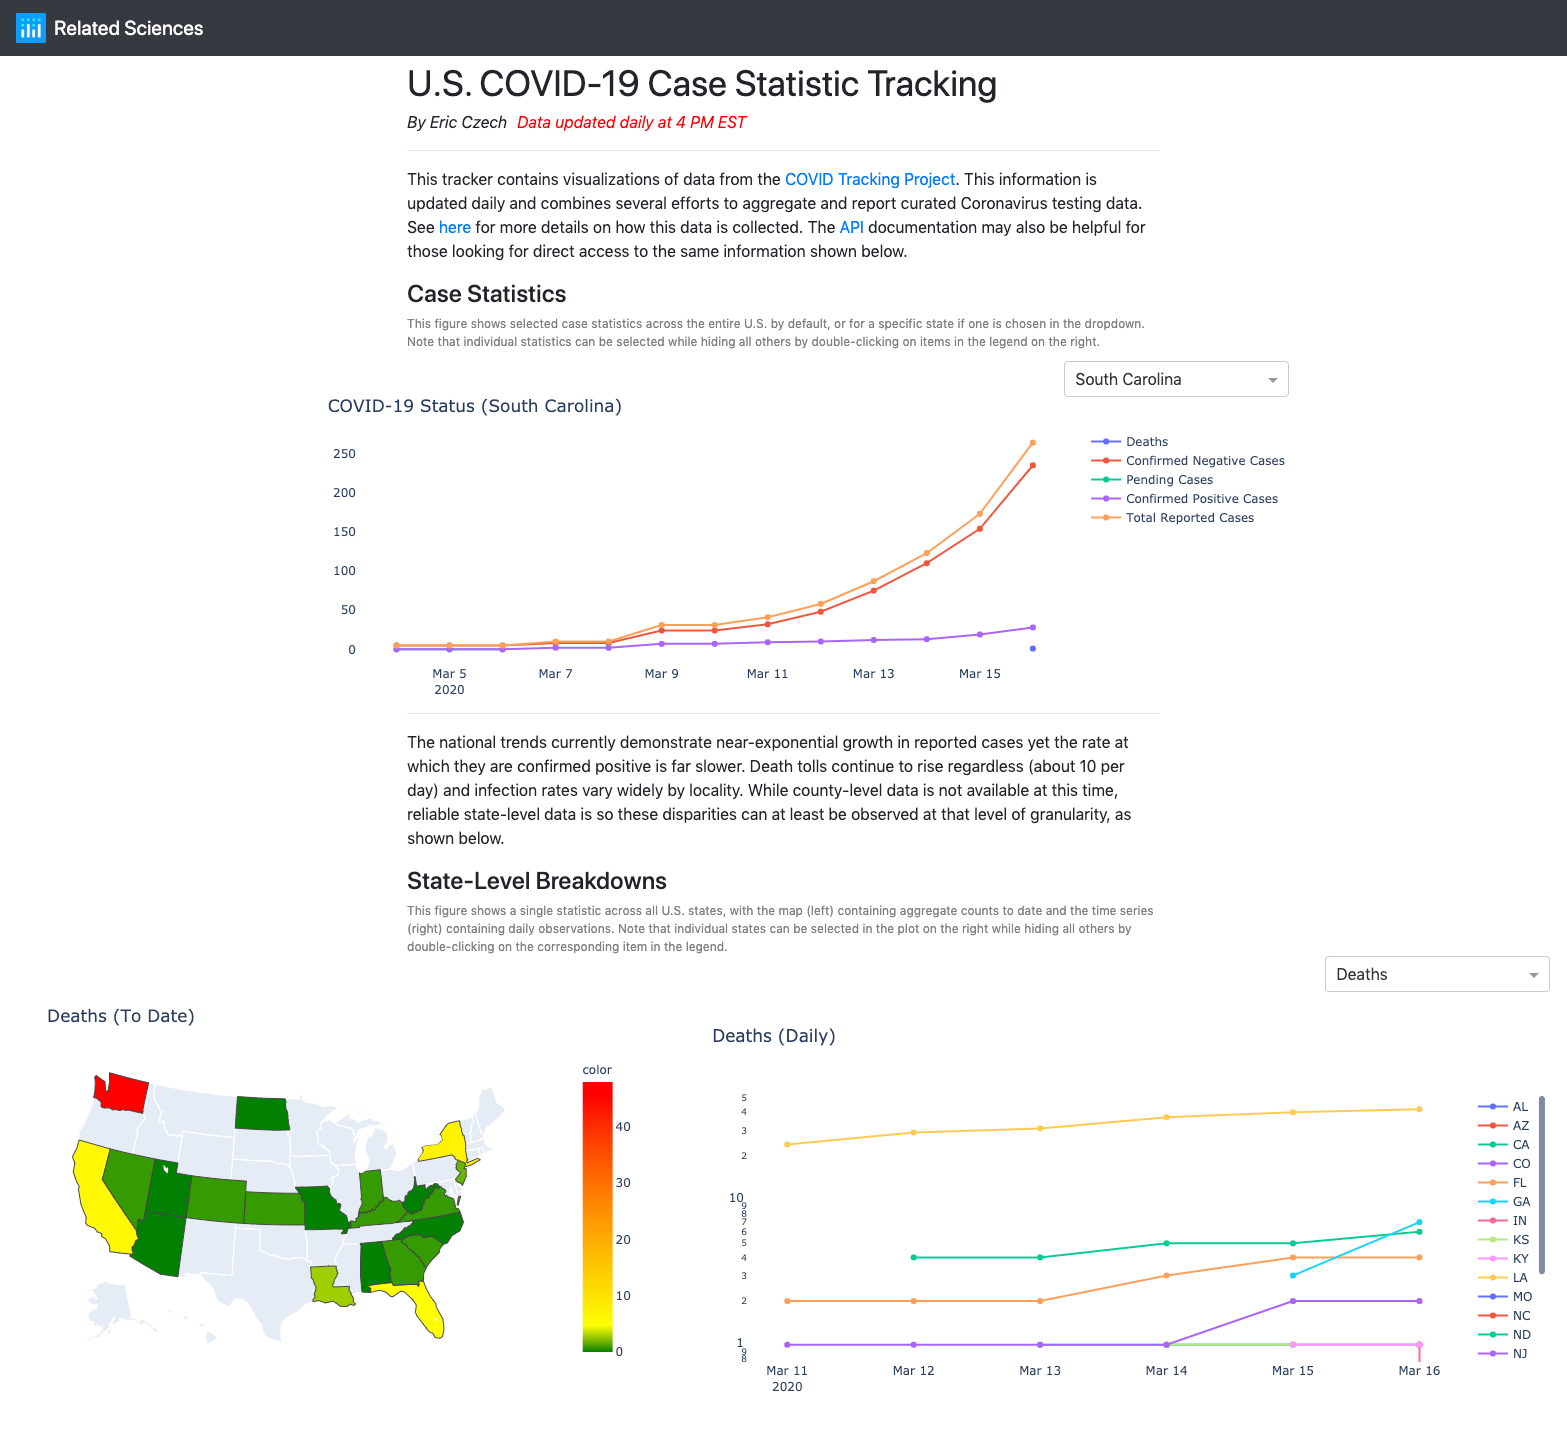
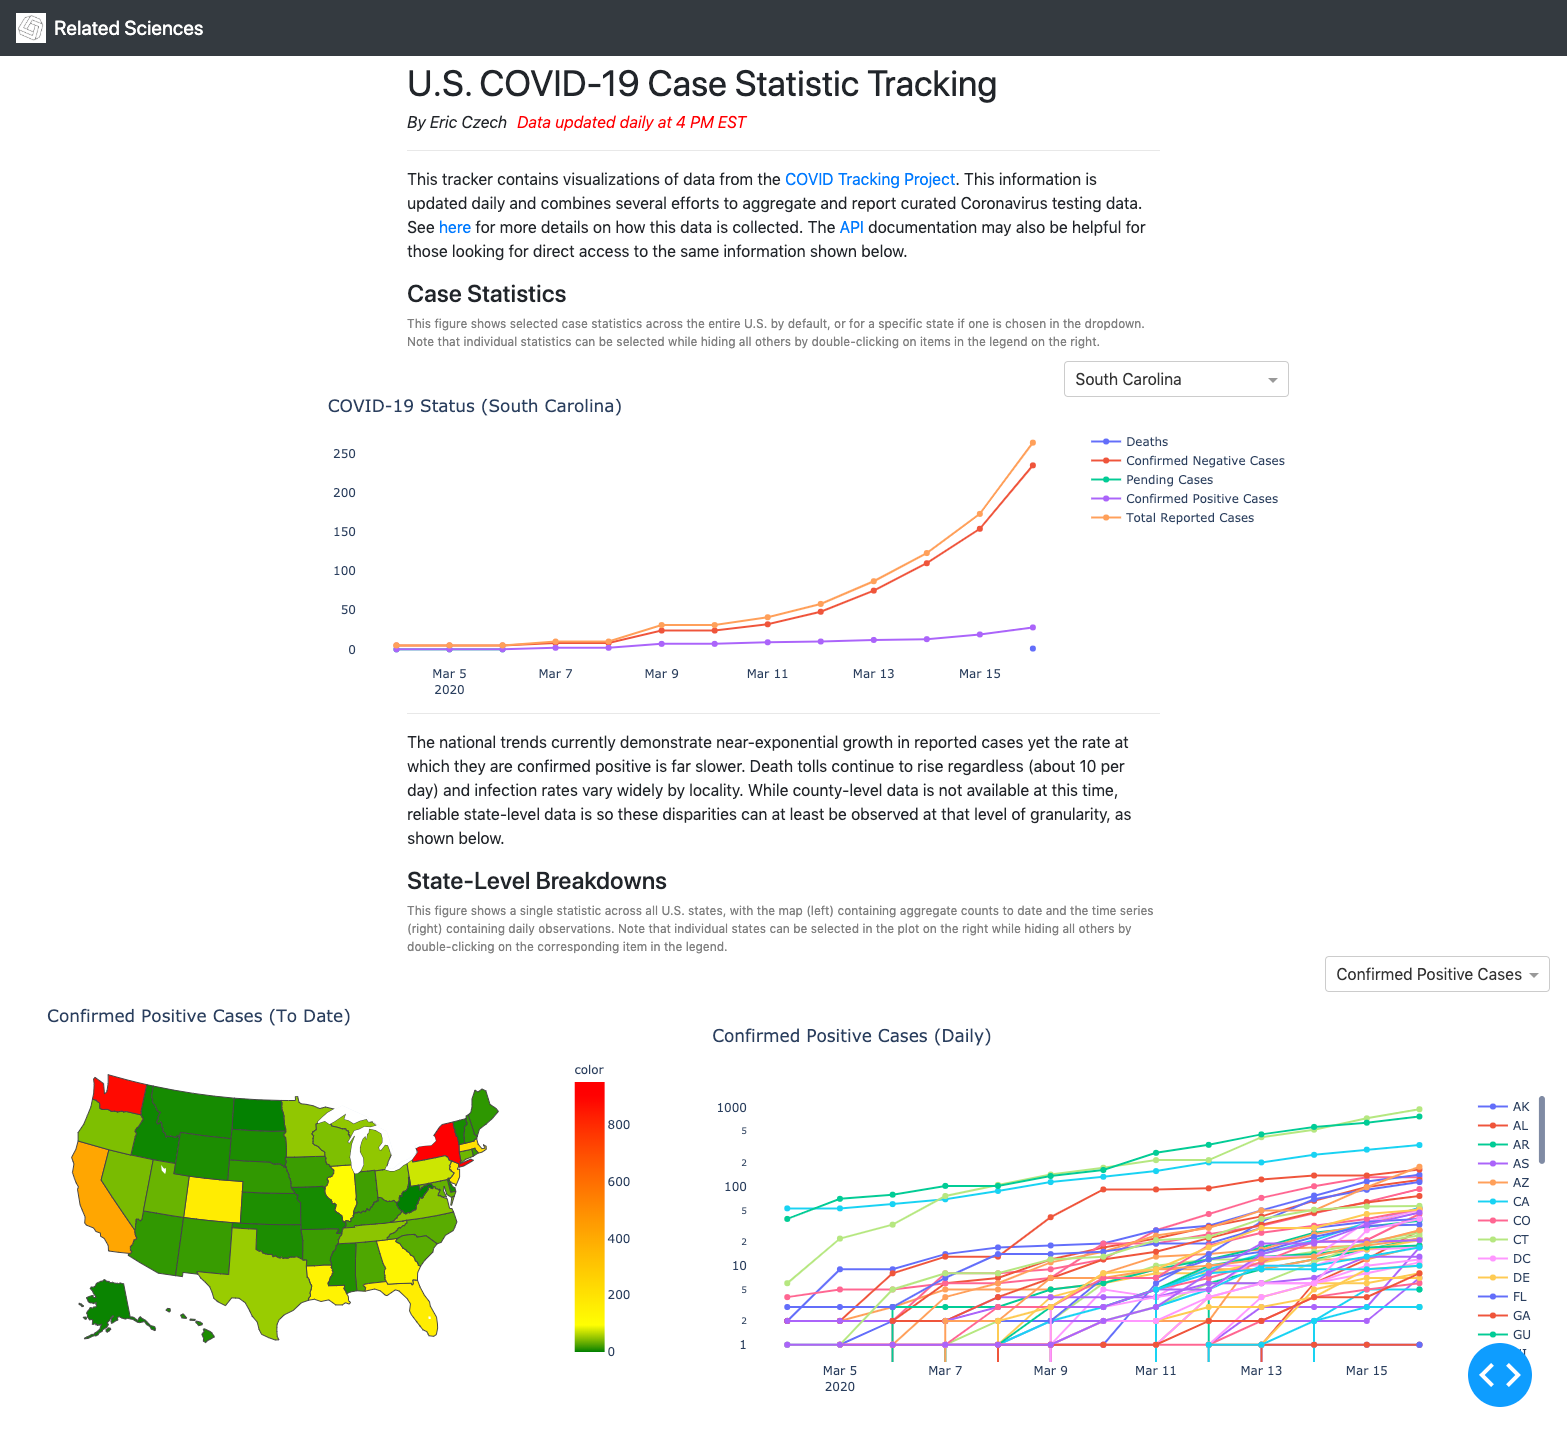
Bit.ly link and screenshot fix

diff --git a/README.md b/README.md
@@ -1,6 +1,6 @@
 ## COVID Tracking
 
-[Dash](https://plot.ly/dash/) app for visualizations of data from https://covidtracking.com, currently running [here](http://35.245.250.197:8050/):
+[Dash](https://plot.ly/dash/) app for visualizations of data from [COVID Tracking Project](https://covidtracking.com), currently running at [http://bit.ly/rs-covid-tracking](http://bit.ly/rs-covid-tracking):
 
 ![screenshot.png](docs/images/screenshot.png)
 
